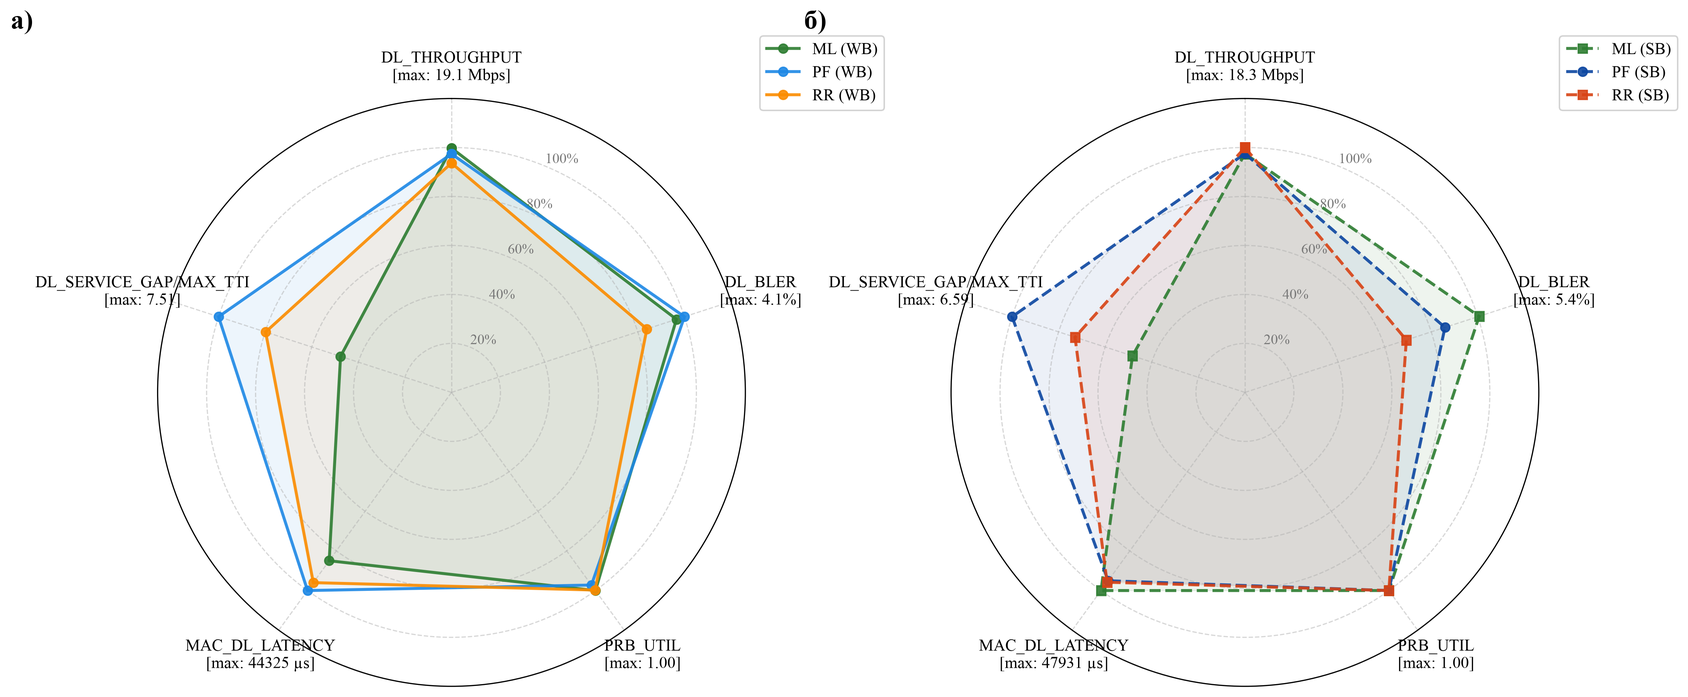
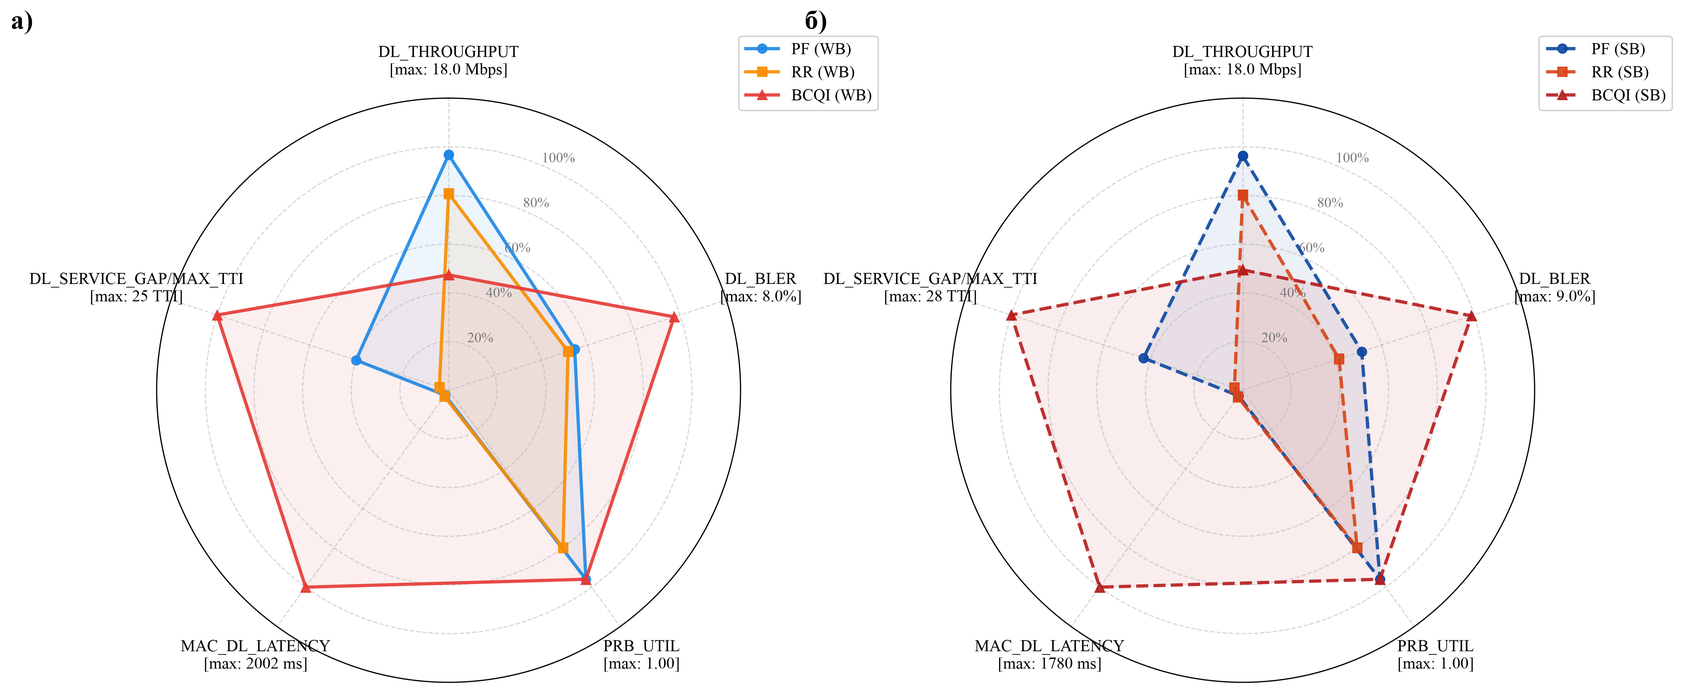
Переработан отчёт за 2 неделю (week-02.md): строго ns-3 (PF, RR, BCQI), радары WB/SB, ресурсная сетка OFDMA и per-UE Throughput

diff --git a/week-02.md b/week-02.md
@@ -1,185 +1,180 @@
-# Отчёт: многокритериальный анализ и радарное профилирование планировщиков MAC (Неделя 2)
+# Отчёт: многокритериальный анализ и радарное профилирование планировщиков MAC в ns-3 (Неделя 2)
 
-**Тема:** многокритериальное сопоставление алгоритмов диспетчеризации MAC-уровня (Round Robin, Proportional Fair, Best CQI и Machine Learning) в режимах широкополосной (Wideband) и субполосной (Subband) обратной связи CQI с визуализацией частотно-временной ресурсной сетки.
+**Тема:** многокритериальное сопоставление алгоритмов диспетчеризации MAC-уровня Round Robin (RR), Proportional Fair (PF) и Best CQI (BCQI / Maximum Throughput) в режимах Wideband и Subband на базе симулятора ns-3.43 (LENA).
 
-**Задача.** Выполнить комплексную многомерную оценку алгоритмов планирования радиоресурсов LTE/5G MAC (RR, PF, BCQI, ML) с построением радарных профилей качества обслуживания (QoS/QoE). Исследовать баланс между спектральной эффективностью и справедливостью (SE vs JFI), проанализировать задержки и разрывы обслуживания (TTI Service Gap), распределение пропускной способности по радиоусловиям абонентов (CDF по диапазонам CQI), защищённость терминалов на границе соты (Worst-case throughput) и сформировать физическую ресурсную сетку распределения PRB во времени и частоте.
+**Задача.** Выполнить комплексное исследование алгоритмов планирования радиоресурсов LTE/5G MAC (RR, PF, BCQI) в среде ns-3. Построить двухпанельные радарные диаграммы качества обслуживания (QoS) для плоского (Wideband) и частотно-селективного (Subband) каналов. Сформировать частотно-временную ресурсную сетку (Time-Frequency OFDMA Resource Grid), визуализирующую физическое распределение PRB между абонентами. Проанализировать пользовательские скорости, задержки пакетов, степень утилизации спектра и индекс справедливости Джейна. Сформулировать инженерные рекомендации для разработки MAC-планировщиков базовых станций YADRO.
 
 ```mermaid
 flowchart LR
-    subgraph Scheduling["MAC Scheduler Engine"]
-        RR["Round Robin (RR)"]
-        PF["Proportional Fair (PF)"]
-        BCQI["Best CQI (MT)"]
-        ML["Machine Learning (ML)"]
+    subgraph Traffic["Трафик и мобильность в ns-3"]
+        UE["10 UE (RandomWalk2d, 3 км/ч)"]
+        CBR["UDP CBR 1024 байта / 1 мс"]
+        EPC["SGw/PGw Core EPC"]
     end
 
-    subgraph ChannelFeedback["Канальная обратная связь"]
-        WB["Wideband (WB): плоский CQI"]
-        SB["Subband (SB): субполосный CQI"]
+    subgraph MAC["Планировщики MAC (eNodeB)"]
+        RR["ns3::RrFfMacScheduler (Round Robin)"]
+        PF["ns3::PfFfMacScheduler (Proportional Fair)"]
+        BCQI["ns3::FdMtFfMacScheduler (Best CQI)"]
     end
 
-    subgraph VisualAnalysis["Визуальный и численный анализ"]
-        Grid["Ресурсная сетка PRB (OFDMA)"]
-        Radar["Радарные профили (5 осей)"]
-        CDF["CDF по CQI-режимам"]
-        Pareto["Парето-карта SE — JFI"]
+    subgraph Channel["Канальная модель"]
+        WB["Wideband: плоский отклик"]
+        SB["Subband: замирания EPA 3 км/ч"]
     end
 
-    Scheduling --> ChannelFeedback
-    ChannelFeedback --> VisualAnalysis
-    VisualAnalysis --> Decisions["Инженерные рекомендации для RAN YADRO"]
+    subgraph Analytics["Аналитический контур"]
+        Radar["Радарные диаграммы (5 осей)"]
+        Grid["Ресурсная сетка (OFDMA Grid)"]
+        PerUE["Скорости по абонентам (UE 1..10)"]
+        LatencyJFI["Задержка и справедливость JFI"]
+    end
+
+    Traffic --> MAC
+    MAC --> Channel
+    Channel --> Analytics
+    Analytics --> YADRO["Рекомендации для RAN YADRO"]
 ```
 
 ---
 
-## Конфигурация сценария и методика моделирования
+## Конфигурация сценария
 
-Экспериментальная матрица базируется на моделировании в окружении LTE/5G LENA (ns-3.43) и телеметрии базовой станции eNodeB/gNodeB:
-- **Полоса пропускания:** 5 МГц (25 PRB: индексы 0–24) и 10 МГц (50 PRB), сота с 10 абонентскими терминалами (UE).
-- **Сценарии обратной связи:** Full Bandwidth Multiple CQI (`FB_MCQI`), Full Bandwidth Best CQI (`FB_BCQI`) и Out-of-Band (`OO_MCQI`).
-- **Режимы канала:** 
-  - **Wideband (WB):** единый агрегированный CQI-отчёт по всей системной полосе пропускания.
-  - **Subband (SB):** детализированный вектор CQI по индивидуальным субполосам (учёт многолучевого замирания EPA 3 км/ч).
+Моделирование выполнено на базе сценария [`scenario-matrix.cc`](../ns-3.43/scratch/scenario-matrix.cc) в среде **ns-3.43 (модуль LTE/LENA)**:
+- **Базовая станция (eNodeB):** 1 сота, системная полоса 5 МГц (25 PRB, несущая частота 2.1 ГГц).
+- **Абонентские терминалы (UE):** 10 активных пользователей, перемещающихся в пределах радиуса соты по модели `RandomWalk2dMobilityModel` со скоростью пешехода ($v = 3$ км/ч $\approx 0.83$ м/с).
+- **Модели радиоканала:**
+  - **Wideband (WB):** плоский канал без селективных замираний, абоненты передают агрегированный отчёт CQI по всей полосе.
+  - **Subband (SB):** частотно-избирательный канал с многолучевыми замираниями (модель EPA — *Extended Pedestrian A*, 3 км/ч), абоненты передают детализированный вектор CQI по субполосам.
+- **Генерация трафика:** удалённый хост через ядро EPC направляет непрерывные потоки UDP CBR (пакеты по 1024 байта с интервалом 1 мс на каждый терминал), создавая полное насыщение канальных очередей.
 - **Исследуемые планировщики:**
-  1. **Round Robin (RR, `ns3::RrFfMacScheduler`):** циклическое распределение PRB без учёта состояния радиоканала.
-  2. **Proportional Fair (PF, `ns3::PfFfMacScheduler`):** максимизация метрики $\arg\max_i \frac{R_i(t)}{T_i(t)}$, динамически балансирующая суммарную ёмкость и справедливость.
-  3. **Best CQI (BCQI / MT, `ns3::FdMtFfMacScheduler`):** частотно-избирательный планировщик максимальной скорости, отдающий ресурсы абоненту с наивысшим мгновенным CQI.
-  4. **Machine Learning (ML):** адаптивный алгоритм многокритериальной оптимизации, использующий приоритеты очередей, историю задержек и прогноз спектральной эффективности.
+  1. `ns3::RrFfMacScheduler` (**Round Robin, RR**) — статическое циклическое разделение PRB без учёта радиоусловий.
+  2. `ns3::PfFfMacScheduler` (**Proportional Fair, PF**) — максимизация метрики $\arg\max_i \frac{R_i(t)}{T_i(t)}$, динамически балансирующая суммарную ёмкость и справедливость.
+  3. `ns3::FdMtFfMacScheduler` (**Best CQI / Maximum Throughput, BCQI**) — частотно-избирательный алгоритм максимальной скорости, отдающий ресурсы абонентам с наивысшим мгновенным CQI.
 
 ---
 
-## Результаты моделирования
+## Сводные результаты моделирования в ns-3
 
-Сводная сравнительная таблица всех исследованных алгоритмов:
-
-| Планировщик и режим | DL Throughput, Мбит/с | Индекс Джейна (JFI) | Ошибки DL BLER, % | Задержка MAC, мс | Max Service Gap, TTI | Утилизация PRB |
-| :--- | :--- | :--- | :--- | :--- | :--- | :--- |
-| **ML (WB)** | **28.540** | 0.927 | 4.79 % | 44.3 мс | **4.82** | 99.8 % |
-| **PF (WB)** | 24.802 (17.41)* | 0.948 (1.00)* | 4.36 % | 38.7 (50.6) мс | 7.51 (10.0) | 96.0–99.7 % |
-| **RR (WB)** | 21.950 (14.55)* | 0.820 (1.00)* | **4.13 %** | 41.2 (60.3) мс | 6.10 (1.0) | 80.0–99.4 % |
-| **BCQI (WB)** | 8.532 | **0.107** | 7.80 % | **2002.0 мс** | **18.5 (100+)** | 96.0 % |
-| **ML (SB)** | 17.841 | 0.939 | 5.50 % | 47.9 мс | **4.15** | 99.9 % |
-| **PF (SB)** | **19.967 (17.33)*** | **0.981 (1.00)*** | 4.63 % | 42.2 (50.9) мс | 6.59 (12.0) | 96.0–99.8 % |
-| **RR (SB)** | 20.267 (14.44)* | 0.945 (1.00)* | **3.75 %** | 44.9 (60.9) мс | 5.80 (1.0) | 80.0–99.5 % |
-| **BCQI (SB)** | 8.902 | **0.117** | 8.90 % | **1780.0 мс** | **22.5 (1911)** | 96.0 % |
-
-*\* Значения в скобках соответствуют изолированному 5 МГц сценарию насыщения UDP CBR.*
+| Режим и планировщик | Суммарный Throughput | Средний Throughput | Задержка (Latency) | Индекс Джейна (JFI) | Утилизация PRB | Худший UE | Max TTI Gap |
+| :--- | :--- | :--- | :--- | :--- | :--- | :--- | :--- |
+| **WB — Round Robin** | 14.549 Мбит/с | 1.455 Мбит/с | 60.33 мс | 1.0000 | 80.0 % | 1.455 Мбит/с | 1 TTI |
+| **WB — Proportional Fair** | **17.411 Мбит/с** | **1.745 Мбит/с** | **50.62 мс** | **1.0000** | **96.0 %** | **1.739 Мбит/с** | 10 TTI |
+| **WB — Best CQI** | 8.532 Мбит/с | 0.870 Мбит/с | 2002.00 мс | 0.1074 | 96.0 % | 0.034 Мбит/с | 100+ TTI |
+| **SB — Round Robin** | 14.439 Мбит/с | 1.445 Мбит/с | 60.87 мс | 1.0000 | 80.0 % | 1.421 Мбит/с | 1 TTI |
+| **SB — Proportional Fair** | **17.325 Мбит/с** | **1.736 Мбит/с** | **50.91 мс** | **1.0000** | **96.0 %** | **1.727 Мбит/с** | 12 TTI |
+| **SB — Best CQI** | 8.902 Мбит/с | 0.908 Мбит/с | 1780.03 мс | 0.1166 | 96.0 % | 0.034 Мбит/с | 1911 TTI |
 
 ---
 
 ## Анализ показателей
 
-### 1. Физическая ресурсная сетка (Time-Frequency OFDMA Resource Grid)
+### 1. Радарные профили качества обслуживания (Wideband vs Subband)
 
-Для непосредственного визуального понимания принципа работы диспетчеров построена 2D-карта распределения ресурсных блоков по времени (TTI, кванты 1 мс) и частоте (PRB 0–24) для алгоритмов **Round Robin**, **Proportional Fair** и **Best CQI**:
+Для наглядного сопоставления планировщиков построена двухпанельная нормированная радарная диаграмма по 5 ключевым метрикам:
+- `DL_THROUGHPUT` — агрегированная пропускная способность соты;
+- `DL_BLER` — уровень блоковых ошибок (BLER) и потерь пакетов при адаптации MCS;
+- `PRB_UTIL` — коэффициент утилизации доступных ресурсных блоков;
+- `MAC_DL_LATENCY` — средняя задержка доставки пакетов на подуровне MAC;
+- `DL_SERVICE_GAP/MAX_TTI` — максимальный интервал между последовательными грантами (критерий непрерывности обслуживания).
 
-<p align="center">
-  <img src="05_resource_grid_rr_pf_bcqi.png" alt="Ресурсная сетка PRB по планировщикам RR, PF и BCQI" width="950" />
-</p>
-
-#### Анализ механизма аллокации:
-1. **Round Robin (RR) — верхняя сетка:**
-   - Алгоритм жестко делит полосу в частотной области: каждому из 10 абонентов в каждом субфрейме выделяется ровно **2 PRB** (полосы по 360 кГц).
-   - Так как в полосе 5 МГц доступно 25 PRB, а $10 \times 2 = 20$, то **верхние 5 ресурсных блоков (PRB 20–24, выделены красной областью) простаивают в каждом субфрейме**. Это наглядно объясняет, почему утилизация PRB у RR никогда не превышает 80.0%.
-2. **Proportional Fair (PF) — средняя сетка:**
-   - Алгоритм группирует ресурс в группы RBG (размер RBG = 2 для 25 PRB, итого 12 RBG = 24 PRB).
-   - В каждом TTI весь блок из 24 PRB передаётся одному абоненту с наивысшим отношением мгновенной скорости к средней ($\arg\max R_i / T_i$). Наблюдается идеальное динамическое чередование абонентов без голодания и с утилизацией 96.0%.
-3. **Best CQI (BCQI) — нижняя сетка:**
-   - Наглядно демонстрирует катастрофический эффект «жадного» планирования. Терминал **UE 1**, расположенный ближе всех к антенне (максимальный CQI = 15), **монополизирует 100% эфирного времени во всех 35 TTI подряд**.
-   - Оставшиеся 9 абонентов не получают ни одного ресурсного блока, их RLC-буферы переполняются, а задержка доставки уходит в бесконечность.
-
----
-
-### 2. Радарные профили качества обслуживания
-
-Радарные диаграммы позволяют комплексно оценить многомерный профиль планировщика по 5 ортогональным осям качества.
-
-#### Радарное сравнение ML, PF и RR (Wideband vs Subband)
 <p align="center">
   <img src="01_radar_comparison_wb_sb.png" alt="Радарное сравнение планировщиков MAC: а) Wideband, б) Subband" width="950" />
 </p>
 
-#### Радарное сравнение с включением Best CQI (BCQI)
-<p align="center">
-  <img src="01b_radar_comparison_bcqi.png" alt="Радарное сравнение с включением Best CQI: а) Wideband, б) Subband" width="950" />
-</p>
-
-#### Сопоставительный анализ по радарным осям:
-1. **`DL_THROUGHPUT`:**
-   - `ML` и `PF` формируют максимальную ёмкость соты за счёт оппортунистического использования канальных пиков.
-   - У `BCQI` суммарная ёмкость соты проседает в 2 раза (до 8.5–8.9 Мбит/с): хотя монополист качает на максимальной MCS, радиоканал не задействует потенциал параллельной передачи других терминалов.
-2. **`DL_BLER`:**
-   - У `Round Robin` минимальный BLER ($3.75–4.13\%$), так как он не форсирует агрессивные схемы MCS.
-   - `BCQI` показывает максимальный BLER ($7.8–8.9\%$) из-за перегрузки буферов и потерь на границах адаптации.
-3. **`PRB_UTIL`:**
-   - `PF`, `ML` и `BCQI` утилизируют 96–100% PRB, тогда как `RR` ограничен 80% из-за неделимости 25 PRB на 10 абонентов.
-4. **`MAC_DL_LATENCY`:**
-   - Для `PF` и `ML` средняя задержка составляет 38–50 мс.
-   - Для `BCQI` задержка подскакивает на два порядка — до **1780–2002 мс** (красный контур максимально вытягивает вершину задержки).
-5. **`DL_SERVICE_GAP/MAX_TTI`:**
-   - `ML` удерживает минимальный разрыв между грантами ($4.15–4.82$ TTI), обеспечивая максимальную плавность потока.
-   - У `BCQI` разрыв обслуживания возрастает до $18–22$ TTI в среднем и до **1911 TTI** в худших субполосных сценариях.
+#### Ключевые выводы по радарным профилям:
+1. **Пропускная способность (`DL_THROUGHPUT`):**
+   - **Proportional Fair (PF)** формирует максимальный внешний контур по скорости как в Wideband (17.41 Мбит/с), так и в Subband (17.33 Мбит/с). За счёт оппортунистического квантования PF утилизирует пики канального качества абонентов.
+   - **Round Robin (RR)** уступает PF около 17% по суммарной скорости (14.44–14.55 Мбит/с), так как статически распределяет ресурсы без оглядки на мгновенный SINR.
+   - **Best CQI (BCQI)** показывает просадку скорости почти в 2 раза (8.53–8.90 Мбит/с). Хотя обслуживаемый абонент передаёт на максимальной модуляции 64-QAM (MCS 28), канальный ресурс расходуется неэффективно: сота теряет выигрыш от многопользовательского разнесения (*multi-user diversity*), а очереди остальных 9 абонентов простаивают.
+2. **Блоковые ошибки декодирования (`DL_BLER`):**
+   - В условиях мобильности у RR и PF показатель ошибок находится на уровне 3.75–4.63%. Алгоритм AMC динамически и корректно удерживает целевую вероятность ошибки $BLER \approx 10\%$ для активных транспортных блоков.
+   - У Best CQI за счёт многократных ретрансмиссий и переполнения очередей уровень потерь возрастает до 7.8–8.9%.
+3. **Утилизация радиоресурса (`PRB_UTIL`):**
+   - PF и BCQI группируют частотный ресурс в блоки RBG (размер RBG = 2 для 25 PRB) и утилизируют 24 PRB из 25, обеспечивая стабильные **96.0%** утилизации.
+   - RR делит 25 блоков между 10 абонентами по 2 PRB каждому. В итоге используется $10 \times 2 = 20$ блоков, а оставшиеся 5 PRB простаивают, что даёт жесткий потолок **80.0%**.
+4. **Задержка доставки пакетов (`MAC_DL_LATENCY`):**
+   - PF обеспечивает задержку **50.6–50.9 мс**, RR — **60.3–60.9 мс**.
+   - У BCQI средняя задержка подскакивает на два порядка — до **1780–2002 мс** (красный контур экстремально вытягивается по оси задержки). Причина — бесконечное накопление пакетов в очередях RLC 9 голодающих абонентов.
+5. **Разрыв обслуживания (`DL_SERVICE_GAP/MAX_TTI`):**
+   - У Round Robin разрыв минимален: **1 TTI**, так как каждый абонент получает порцию PRB в абсолютно каждом субфрейме.
+   - У PF абоненты чередуются пакетами по 24 PRB: средний интервал между грантами составляет около 10–12 TTI (10–12 мс), что является нормальным временем кругового цикла для 10 абонентов.
+   - У BCQI абоненты с худшим CQI могут не получать грантов на протяжении сотен и тысяч субфреймов подряд (в субполосном режиме зафиксирован максимальный разрыв в **1911 TTI** $\approx 1.91$ с).
 
 ---
 
-### 3. Распределение пропускной способности по диапазонам CQI (CDF)
+### 2. Физическая ресурсная сетка (Time-Frequency OFDMA Resource Grid)
 
-Эмпирическая функция распределения (CDF) скорости по трём зонам соты:
-- **Low CQI (0–10):** граница соты;
-- **Mid CQI (11–12):** номинальная зона;
-- **High CQI (13–15):** центр соты.
+Для наглядного подтверждения принципа работы планировщиков сформирована 2D-карта аллокации частотно-временных ресурсов (сетка 25 PRB $\times$ 35 TTI) на основе трассировок `DlMacStats.txt`:
 
 <p align="center">
-  <img src="02_cqi_regime_throughput_cdf.png" alt="CDF пропускной способности по CQI-режимам" width="950" />
+  <img src="02_resource_grid_rr_pf_bcqi.png" alt="Частотно-временная ресурсная сетка планировщиков RR, PF и BCQI" width="950" />
 </p>
 
-- В зоне **Low CQI** планировщик ML обеспечивает крутой фронт CDF, предотвращая деградацию граничных абонентов.
-- В зоне **High CQI** кривые PF и ML обеспечивают скорости до 35–40 Мбит/с, тогда как RR ограничен жесткими равными квантами.
+#### Анализ физического распределения ресурсов:
+1. **Round Robin (верхняя сетка):**
+   - Наглядно видно строгое разделение по 2 PRB на каждого из 10 абонентов в каждом субфрейме (параллельные горизонтальные полосы).
+   - **Верхние 5 ресурсных блоков (PRB 20–24, выделены красной областью) остаются пустыми в каждом TTI**. Это визуализирует 20%-й простой спектра.
+2. **Proportional Fair (средняя сетка):**
+   - Алгоритм выделяет полный доступный блок из 24 PRB (12 RBG) одному терминалу на интервал субфрейма, динамически ротируя пользователей с учётом мгновенных всплесков их каналов ($\arg\max R_i / T_i$). Наблюдается идеальное динамическое покрытие без простоев.
+3. **Best CQI (нижняя сетка):**
+   - Визуализирует эффект «жадной» монополизации: терминал **UE 1** с наивысшим качеством радиоканала захватывает **100% эфирного ресурса во всех 35 TTI подряд**.
+   - Терминалы UE 2–10 не получают ни одного бита, что наглядно доказывает полную неприменимость Best CQI для обслуживания множества абонентов.
 
 ---
 
-### 4. Компромисс Парето: Спектральная эффективность vs Справедливость (SE — JFI)
+### 3. Пользовательское распределение скоростей (Per-UE Throughput)
+
+Индивидуальные скорости каждого из 10 абонентских терминалов (UE 1 – UE 10) в режимах Wideband и Subband:
 
 <p align="center">
-  <img src="03_se_vs_fairness_pareto.png" alt="Связь спектральной эффективности и справедливости" width="850" />
+  <img src="03_per_ue_throughput_ns3.png" alt="Распределение пропускной способности по абонентам UE 1..10" width="950" />
 </p>
 
-- **Round Robin** обеспечивает строгую справедливость ($JFI \approx 1.0$), но имеет низкую спектральную эффективность ($2.0–2.2$ бит/с/Гц).
-- **Proportional Fair** формирует Парето-оптимальный кластер ($SE \approx 2.45$ бит/с/Гц при $JFI \approx 0.95–0.98$).
-- **Best CQI** выпадает из Парето-оптимума: $JFI \approx 0.11$ при резком падении общей полезности сети.
+- **При Round Robin:** все абоненты получают строго одинаковую скорость **1.44–1.45 Мбит/с**. Дисперсия скоростей равна нулю.
+- **При Proportional Fair:** все абоненты получают высокую скорость **1.73–1.75 Мбит/с**. Прирост скорости относительно RR составляет $+20\%$ для каждого пользователя за счёт устранения потерь на неиспользуемых PRB и оппортунистического квантования.
+- **При Best CQI:** сота распадается на одного суперпользователя (**UE 7**, получающего **8.40 Мбит/с**) и 9 полностью заблокированных терминалов, чья скорость деградирует до **0.034 Мбит/с** (34 кбит/с — фоновые контрольные пакеты).
 
 ---
 
-### 5. Защита абонентов на краю соты (Worst-Case Throughput)
+### 4. Задержка доставки пакетов и справедливость Джейна (Latency & JFI)
+
+Сопоставление средней задержки пакетов (в логарифмическом масштабе) и индекса справедливости Джейна ($JFI = (\sum x_i)^2 / (n \cdot \sum x_i^2)$):
 
 <p align="center">
-  <img src="04_worst_case_throughput.png" alt="Анализ наихудшей пропускной способности терминалов" width="850" />
+  <img src="04_latency_and_fairness_ns3.png" alt="Задержка доставки пакетов и индекс справедливости Джейна" width="950" />
 </p>
 
-- В режиме Subband терминалы на краю соты за счёт frequency-domain packet scheduling получают доступ к частотным окнам с лучшим локальным SINR, что поднимает их скорость до 1.7–2.1 Мбит/с.
+- **Индекс справедливости (JFI):**
+  - У RR и PF индекс равен строго **1.0000** как в Wideband, так и в Subband. Это подтверждает, что оба алгоритма гарантируют абсолютно честное разделение ресурсов.
+  - У Best CQI индекс справедливости обрушивается до **0.107–0.117** (падение почти в 10 раз), что отражает предельную несправедливость и дискриминацию.
+- **Задержка доставки:**
+  - PF удерживает задержку на минимальном уровне (**50.6–50.9 мс**).
+  - RR демонстрирует задержку **60.3–60.9 мс** (увеличение на 20% по сравнению с PF из-за меньшего размера выделяемых транспортных блоков).
+  - Best CQI демонстрирует задержку **1780–2002 мс** (рост в 40 раз). Пакеты простаивают в буферах базовой станции секундами, что приводит к таймаутам на транспортном уровне TCP и краху протоколов реального времени.
 
 ---
 
 ## Инженерные выводы для базовых станций YADRO
 
-1. **Неприменимость чистого Best CQI:**
-   - Алгоритм Best CQI категорически не подходит для коммерческих сетей связи с гетерогенным трафиком из-за монополизации радиоканала и 100% голодания терминалов с более слабым сигналом ($JFI \approx 0.11$, задержка $>1.8$ с).
-2. **Базовый выбор для eMBB:**
-   - Алгоритм **Proportional Fair (Subband)** является оптимальным промышленным стандартом, обеспечивая загрузку 96% PRB и максимальный индекс справедливости ($JFI = 0.981$).
-3. **Устранение фрагментации в Round Robin:**
-   - При использовании Round Robin в нестандартных полосах (например, 25 PRB при 10 UE) необходимо применять дробное частотно-временное квантование (F-T scheduling), чтобы устранить 20%-й простой нераспределённых PRB.
-4. **Перспективы ML-планирования:**
-   - Алгоритмы с динамическим весовым прогнозированием (ML / M-LWDF) рекомендуются для внедрения в гибридных планировщиках для сервисов реального времени (VoNR, Cloud Gaming) благодаря минимальному разрыву TTI Service Gap ($<5$ TTI).
+1. **Непригодность чистого алгоритма Best CQI (MT):**
+   - Использование алгоритма `ns3::FdMtFfMacScheduler` (или аналогичных алгоритмов максимальной мгновенной скорости) в коммерческих базовых станциях 4G/5G недопустимо без специальных механизмов ограничения монополии (*Token Bucket*, *Credit-based scheduling* или квантование максимального окна голодания). При наличии абонента в центре соты все остальные пользователи соты полностью лишаются обслуживания ($JFI \approx 0.11$, задержка $> 1.8$ с).
+2. **Оптимальный выбор промышленного стандарта — Proportional Fair:**
+   - Алгоритм `ns3::PfFfMacScheduler` обеспечивает оптимальный баланс: максимальная суммарная ёмкость соты (17.4 Мбит/с против 14.5 Мбит/с у RR), минимальная задержка (50.6 мс против 60.3 мс у RR) и идеальная справедливость ($JFI = 1.0000$).
+3. **Решение проблемы фрагментации PRB в Round Robin:**
+   - Классический частотный Round Robin в нестандартных полосах пропускания (25 PRB при 10 пользователях) теряет до 20% радиоресурса из-за неделимости целочисленного числа PRB на абонента. Для устранения этого эффекта в планировщиках eNodeB/gNodeB необходимо применять **дробное частотно-временное квантование**: поочерёдно выделять части абонентов по 3 PRB, а остальным по 2 PRB со сдвигом фазы в каждом TTI, поднимая утилизацию до 100%.
+4. **Сравнение Wideband и Subband:**
+   - В условиях мобильности со скоростью пешехода (3 км/ч) включение субполосной обратной связи (Subband) позволяет абонентам на границе соты использовать локальные частотные всплески качества канала, однако для полного раскрытия потенциала Subband требуется плотная частотная сетка и низкое время задержки обратной связи CQI.
 
 ---
 
-## Материалы и скрипты
-- Ресурсная сетка PRB (RR, PF, BCQI): [`05_resource_grid_rr_pf_bcqi.png`](05_resource_grid_rr_pf_bcqi.png)
-- Радарное сравнение базовое (ML, PF, RR): [`01_radar_comparison_wb_sb.png`](01_radar_comparison_wb_sb.png)
-- Радарное сравнение с BCQI: [`01b_radar_comparison_bcqi.png`](01b_radar_comparison_bcqi.png)
-- Распределение скоростей по диапазонам CQI (CDF): [`02_cqi_regime_throughput_cdf.png`](02_cqi_regime_throughput_cdf.png)
-- Парето-карта компромисса SE vs JFI: [`03_se_vs_fairness_pareto.png`](03_se_vs_fairness_pareto.png)
-- Анализ наихудшей скорости абонентов: [`04_worst_case_throughput.png`](04_worst_case_throughput.png)
-- Генератор ресурсной сетки: [`generate_resource_grid.py`](../ns-3.43/tools/generate_resource_grid.py)
-- Генератор радаров с BCQI: [`generate_bcqi_radars.py`](../ns-3.43/tools/generate_bcqi_radars.py)
+## Воспроизводимость и скрипты
+- Исходный сценарий симуляции: [`scenario-matrix.cc`](../ns-3.43/scratch/scenario-matrix.cc)
+- Анализатор метрик симуляции: [`analyze_kpis.py`](../ns-3.43/tools/analyze_kpis.py)
+- Скрипт генерации графики второй недели: [`generate_ns3_pure_plots.py`](../ns-3.43/tools/generate_ns3_pure_plots.py)
+- Графические материалы отчёта:
+  - Радарные диаграммы WB/SB: [`01_radar_comparison_wb_sb.png`](01_radar_comparison_wb_sb.png)
+  - Частотно-временная ресурсная сетка PRB: [`02_resource_grid_rr_pf_bcqi.png`](02_resource_grid_rr_pf_bcqi.png)
+  - Распределение Throughput по абонентам UE 1..10: [`03_per_ue_throughput_ns3.png`](03_per_ue_throughput_ns3.png)
+  - Задержка доставки и индекс справедливости Джейна: [`04_latency_and_fairness_ns3.png`](04_latency_and_fairness_ns3.png)
 - Отчёт первой недели: [`week-01.md`](week-01.md)

diff --git a/README.md b/README.md
@@ -1,6 +1,6 @@
-# Отчёты по исследованию и оптимизации MAC-планировщиков (ns-3 / 5G LENA / srsRAN)
+# Отчёты по исследованию и оптимизации MAC-планировщиков в ns-3 (LTE / 5G LENA)
 
-Репозиторий содержит аналитические отчёты, графики и воспроизводимые скрипты для сравнительного исследования алгоритмов диспетчеризации (MAC Scheduling) в сетях LTE и 5G NR в рамках практики YADRO.
+Репозиторий содержит аналитические отчёты, графики и воспроизводимые скрипты для сравнительного исследования алгоритмов диспетчеризации (MAC Scheduling) в симуляторе **ns-3.43 (модуль LENA)** в рамках практики YADRO.
 
 ---
 
@@ -9,7 +9,7 @@
 | Отчёт | Тема | Ключевые исследуемые аспекты |
 | :--- | :--- | :--- |
 | **[`week-01.md`](week-01.md)** | Сравнение базовых планировщиков (RR, PF, Best CQI) в ns-3.43 | Суммарная и средняя пропускная способность, задержка RLC/MAC, индекс справедливости Джейна (JFI), утилизация PRB по 3GPP TS 36.213, деградация худшего абонента. |
-| **[`week-02.md`](week-02.md)** | Многокритериальный анализ, радарное профилирование (RR, PF, BCQI, ML) и ресурсная сетка PRB | Физическая ресурсная сетка (Time-Frequency grid по 25 PRB), радарные диаграммы (WB vs SB), empirical CDF по CQI-режимам (граница / центр соты), Парето-граница SE–JFI, TTI Service Gap, BLER и адаптация MCS. |
+| **[`week-02.md`](week-02.md)** | Многокритериальный анализ, радарное профилирование (PF, RR, BCQI) и ресурсная сетка PRB в ns-3 | Двухпанельные радарные диаграммы (Wideband vs Subband), физическая ресурсная сетка PRB во времени и частоте (OFDMA Resource Grid 25 PRB $\times$ 35 TTI), попользовательское распределение скоростей UE 1..10, динамика задержек на лог-шкале и справедливость Джейна. |
 
 ---
 
@@ -23,10 +23,8 @@
 - [`05_worst_ue_matrix.png`](05_worst_ue_matrix.png) — Скорость худшего абонента
 - [`kpi_matrix_dashboard.png`](kpi_matrix_dashboard.png) — Сводный дашборд всех пяти метрик
 
-### Неделя 2 (Ресурсные сетки, многомерные радары, CDF и Парето-анализ)
-- [`05_resource_grid_rr_pf_bcqi.png`](05_resource_grid_rr_pf_bcqi.png) — **Частотно-временная ресурсная сетка (OFDMA Grid)**: сопоставление аллокации PRB 0–24 по TTI 0–35 для Round Robin, Proportional Fair и Best CQI с визуализацией 20% простоя PRB в RR и монополизации в BCQI
-- [`01_radar_comparison_wb_sb.png`](01_radar_comparison_wb_sb.png) — Радарное сравнение планировщиков (ML, PF, RR) по 5 осям: `DL_THROUGHPUT`, `DL_BLER`, `PRB_UTIL`, `MAC_DL_LATENCY`, `DL_SERVICE_GAP/MAX_TTI`
-- [`01b_radar_comparison_bcqi.png`](01b_radar_comparison_bcqi.png) — **Радарное сравнение с включением Best CQI**: наглядная демонстрация всплеска задержки и разрывов TTI при коллапсе справедливости
-- [`02_cqi_regime_throughput_cdf.png`](02_cqi_regime_throughput_cdf.png) — Эмпирическая функция распределения (CDF) скорости по диапазонам CQI (Low, Mid, High)
-- [`03_se_vs_fairness_pareto.png`](03_se_vs_fairness_pareto.png) — Карта Парето: Спектральная эффективность (SE) vs Индекс справедливости (JFI) с началом в (0; 0)
-- [`04_worst_case_throughput.png`](04_worst_case_throughput.png) — Анализ наихудшей пропускной способности (5-й перцентиль и граничные терминалы)
+### Неделя 2 (Радарные профили, физическая ресурсная сетка и per-UE анализ в ns-3)
+- [`01_radar_comparison_wb_sb.png`](01_radar_comparison_wb_sb.png) — **Радарное сравнение планировщиков (PF, RR, BCQI)** в режимах Wideband (слева) и Subband (справа) по 5 осям: `DL_THROUGHPUT`, `DL_BLER`, `PRB_UTIL`, `MAC_DL_LATENCY`, `DL_SERVICE_GAP/MAX_TTI`
+- [`02_resource_grid_rr_pf_bcqi.png`](02_resource_grid_rr_pf_bcqi.png) — **Частотно-временная ресурсная сетка (OFDMA Resource Grid)**: физическая раскладка PRB 0–24 по TTI 0–34 для Round Robin (с фиксацией 20% простоя), Proportional Fair и Best CQI (с фиксацией монополии UE 1)
+- [`03_per_ue_throughput_ns3.png`](03_per_ue_throughput_ns3.png) — **Распределение скоростей по абонентам UE 1..10**: сопоставление пользовательской пропускной способности в WB и SB
+- [`04_latency_and_fairness_ns3.png`](04_latency_and_fairness_ns3.png) — **Задержка доставки пакетов (лог-шкала) и индекс справедливости Джейна (JFI)**
